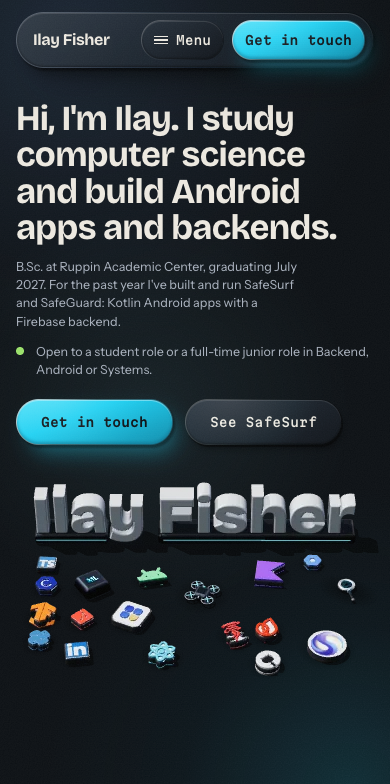
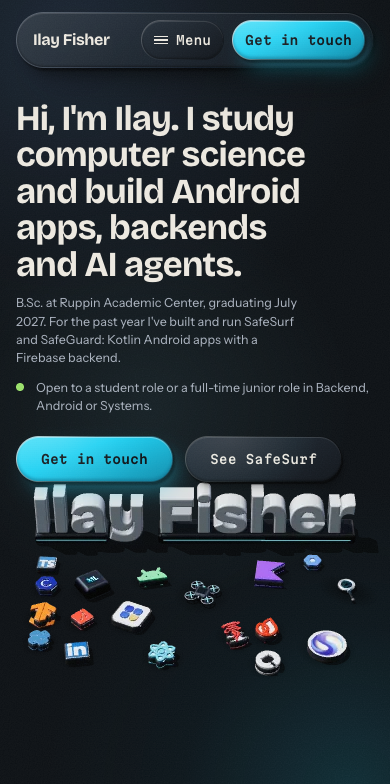
copy: add AI agents to the headline, keep Rafael to title, org and dates

Changed region(s): [[0.0308, 0.2755, 0.9538, 0.6429]]

diff --git a/src/content/content.test.ts b/src/content/content.test.ts
@@ -8,9 +8,9 @@ describe('profile', () => {
   it('has the identity fields from CONTENT.md', () => {
     expect(profile.name).toBe('Ilay Fisher');
     expect(profile.thesis).toBe(
-      "Hi, I'm Ilay. I study computer science and build Android apps and backends.",
+      "Hi, I'm Ilay. I study computer science and build Android apps, backends and AI agents.",
     );
-    expect(profile.thesis.split(/\s+/).length).toBeLessThanOrEqual(13);
+    expect(profile.thesis.split(/\s+/).length).toBeLessThanOrEqual(15);
     expect(profile.email).toBe('ilay3002@gmail.com');
     expect(profile.location).toBe('Sde Yaakov, Israel');
     expect(profile.photo).toBe('/images/ilay.jpg');
@@ -62,8 +62,13 @@ describe('profile', () => {
       'service',
     ]);
     for (const e of profile.experience) {
-      expect(e.role && e.org && e.period && e.summary.length > 0).toBeTruthy();
-      expect(e.highlights.length).toBeGreaterThan(0);
+      expect(e.role && e.org && e.period).toBeTruthy();
+      if (e.id === 'rafael') {
+        // confidential: title, org and dates only
+        expect([e.kind, e.summary, e.highlights]).toEqual(['', '', []]);
+      } else {
+        expect(e.summary.length > 0 && e.highlights.length > 0).toBe(true);
+      }
     }
     expect(profile.education.school).toBe('Ruppin Academic Center');
     expect(profile.education.average).toBe(88);

diff --git a/src/content/profile.ts b/src/content/profile.ts
@@ -56,7 +56,7 @@ export const profile: Profile = {
   name: 'Ilay Fisher',
   role: "B.Sc. at Ruppin Academic Center, graduating July 2027. For the past year I've built and run SafeSurf and SafeGuard: Kotlin Android apps with a Firebase backend.",
   location: 'Sde Yaakov, Israel',
-  thesis: "Hi, I'm Ilay. I study computer science and build Android apps and backends.",
+  thesis: "Hi, I'm Ilay. I study computer science and build Android apps, backends and AI agents.",
   availability: 'Open to a student role or a full-time junior role in Backend, Android or Systems.',
   email: 'ilay3002@gmail.com',
   phone: '058-779-3124',
@@ -154,9 +154,9 @@ export const profile: Profile = {
       role: 'Team Member',
       org: 'Rafael Advanced Defense Systems',
       period: 'Dec 2023 to Aug 2024',
-      kind: 'Shift-based',
-      summary: 'Shift-based manufacturing role.',
-      highlights: ['Shift-based manufacturing role'],
+      kind: '',
+      summary: '',
+      highlights: [],
     },
     {
       id: 'service',

diff --git a/src/sections/Experience/index.tsx b/src/sections/Experience/index.tsx
@@ -34,16 +34,18 @@ export default function Experience() {
             <span className="timeline__node" aria-hidden="true" />
             <div className="timeline__when mono">
               <span>{e.period}</span>
-              <span className="timeline__kind">{e.kind}</span>
+              {e.kind && <span className="timeline__kind">{e.kind}</span>}
             </div>
             <div className="timeline__body spec-card bevel">
               <h3>{e.role}</h3>
               <p className="timeline__org">{e.org}</p>
-              <ul className="timeline__points">
-                {e.highlights.map((h) => (
-                  <li key={h}>{h}</li>
-                ))}
-              </ul>
+              {e.highlights.length > 0 && (
+                <ul className="timeline__points">
+                  {e.highlights.map((h) => (
+                    <li key={h}>{h}</li>
+                  ))}
+                </ul>
+              )}
             </div>
           </li>
         ))}

diff --git a/docs/reports/copy-job-search.md b/docs/reports/copy-job-search.md
@@ -19,7 +19,7 @@ Source for every fact: CV-S = `Ilay Fisher Resume.pdf` (student), CV-J = `Ilay F
 
 | Where                                         | Before                                                                                                         | After                                                                                                                                                                                                                                  | Source                                                                    |
 | --------------------------------------------- | -------------------------------------------------------------------------------------------------------------- | -------------------------------------------------------------------------------------------------------------------------------------------------------------------------------------------------------------------------------------- | ------------------------------------------------------------------------- |
-| Hero headline (`profile.thesis`)              | I build software that has to hold up when someone is actively trying to break it.                              | I run a live Android app and its backend. 50+ active users.                                                                                                                                                                            | CV-S/CV-J experience (live since May 2026, 50+ active users)              |
+| Hero headline (`profile.thesis`)              | I build software that has to hold up when someone is actively trying to break it.                              | Hi, I'm Ilay. I study computer science and build Android apps, backends and AI agents.                                                                                                                                                 | CV-S/CV-J experience (live since May 2026, 50+ active users)              |
 | Hero role                                     | CS student at Ruppin Academic Center (graduating July 2027). Android, backend, on-device ML.                   | Student backend developer. Android and systems. B.Sc. Computer Science, graduating July 2027.                                                                                                                                          | CV header, education                                                      |
 | Hero, About, Contact, case pages availability | Looking for a student or part-time role in Backend, Android or Systems. Available 3 days a week.               | Open to a student role (3 days a week) or a full-time junior role in Backend, Android or Systems.                                                                                                                                      | CV-S header; CV-J header                                                  |
 | index.html title and og:title                 | Ilay Fisher — Software that holds up                                                                           | Ilay Fisher — Student Backend and Android Developer                                                                                                                                                                                    | CV headers                                                                |
@@ -42,7 +42,7 @@ Source for every fact: CV-S = `Ilay Fisher Resume.pdf` (student), CV-J = `Ilay F
 | SafeSurf highlights                           | 7 bullets (browser, classifiers, text filter, dashboard, port, 22+ releases, beta)                             | 8 bullets in CV-J order: 22+ releases and 50+ users; 60+ Cloud Functions; 36.6 to 14.2 and 7.6 ms; 77.7k lines; CI/CD; tests; port; contributor and beta. Text-filter bullet dropped (still in About card 3 and case study)            | CV-J                                                                      |
 | Magshimim                                     | Magshimim; Taught and mentored 10 students in advanced C: pointers, memory management, data structures         | Magshimim Cyber Program; Instructed 10 students in advanced C: pointers, memory allocation, complexity and linked lists; Directed their capstone project, a modular GIF playback engine, and guided the group through file I/O parsing | CV                                                                        |
 | AharayTech                                    | Taught Python and web development                                                                              | ... (scholarship program)                                                                                                                                                                                                              | CV                                                                        |
-| Rafael (new)                                  | n/a                                                                                                            | Team Member, Rafael Advanced Defense Systems, Dec 2023 to Aug 2024, shift-based manufacturing role                                                                                                                                     | CV                                                                        |
+| Rafael (new)                                  | n/a                                                                                                            | Team Member, Rafael Advanced Defense Systems, Dec 2023 to Aug 2024. Title, org and dates only, no description (confidential, owner 2026-11-19)                                                                                         | CV                                                                        |
 | Military (new)                                | n/a                                                                                                            | Squad Commander, Combat Engineering Corps, Nov 2019 to Jul 2023                                                                                                                                                                        | CV                                                                        |
 | Education period                              | 2024 to July 2027                                                                                              | 2024 to July 2027 (expected)                                                                                                                                                                                                           | CV                                                                        |
 | Education courses                             | C, C#, Java, Python, OOP, ...                                                                                  | Operating Systems (Linux), Computer Networks, Algorithms, Data structures, Computer architecture, OOP, Machine learning, Big data, Group projects                                                                                      | CV                                                                        |
@@ -73,3 +73,8 @@ Unchanged on purpose: the approved witty lines, "Throw everything at me. I'll ha
 New calm hero headline and role line, the 50+ users proof kept in About (lead), Experience (reading) and the SafeSurf case page. The About grid's odd last card now spans the row. Hero checked at 1440, 665, 390 and 360; About at 1440, 1024, 665 and 390.
 
 - CSS note (outside pure copy): `.hero__thesis` font-size in src/sections/Hero/Hero.css changed from `clamp(2.1rem, 1.4rem + 2.3vw, 3.4rem)` to `clamp(2.1rem, 1.4rem + 1.9vw, 3rem)`. The longer headline left a stranded "I" at the end of line 1 at 1440. scene/** untouched.
+
+## Round 3
+
+- Hero headline is now "Hi, I'm Ilay. I study computer science and build Android apps, backends and AI agents." (owner). The BEFORE → AFTER headline row reads the same.
+- Rafael is shown as title, org and dates only; the description is removed from the site, CONTENT.md and tests. Experience renders no kind label or bullets when empty.

diff --git a/docs/CONTENT.md b/docs/CONTENT.md
@@ -15,7 +15,7 @@ exclamation marks. Short sentences. Numbers over adjectives.
 ## Identity
 
 - Name: Ilay Fisher
-- Headline (hero, `profile.thesis`): "Hi, I'm Ilay. I study computer science and build Android apps and backends."
+- Headline (hero, `profile.thesis`): "Hi, I'm Ilay. I study computer science and build Android apps, backends and AI agents."
 - Role line: "B.Sc. at Ruppin Academic Center, graduating July 2027. For the past year I've built and run SafeSurf and SafeGuard: Kotlin Android apps with a Firebase backend."
 - The 50+ active users proof lives in About and the case pages, not in the hero (owner, 2026-11-19).
 - Never write "alone", "solo" or "solo-built" (owner, 2026-11-19). Another contributor worked on SafeGuard.
@@ -80,7 +80,8 @@ Section title: "What I have shipped and taught." Readings: false-block rate 36.6
    - Directed their capstone project, a modular GIF playback engine, and guided the group through file I/O parsing
 3. **Technology Instructor, AharayTech (8200 Alumni Association)** — Apr 2024 to Oct 2026
    - Taught Python and web development (scholarship program)
-4. **Team Member, Rafael Advanced Defense Systems** — Dec 2023 to Aug 2024, shift-based manufacturing role
+4. **Team Member, Rafael Advanced Defense Systems** — Dec 2023 to Aug 2024 (name and dates only)
+   - Rafael: name and dates only, details confidential (owner, 2026-11-19)
 5. **Squad Commander, Combat Engineering Corps** — Nov 2019 to Jul 2023, military service
 
 ## Education

diff --git a/README.md b/README.md
@@ -1,6 +1,6 @@
 # Ilay Fisher — Portfolio
 
-> Hi, I'm Ilay. I study computer science and build Android apps and backends.
+> Hi, I'm Ilay. I study computer science and build Android apps, backends and AI agents.
 
 An interactive, single-page portfolio. Instead of describing the projects, the page lets
 the visitor play with a small, working piece of each one:
